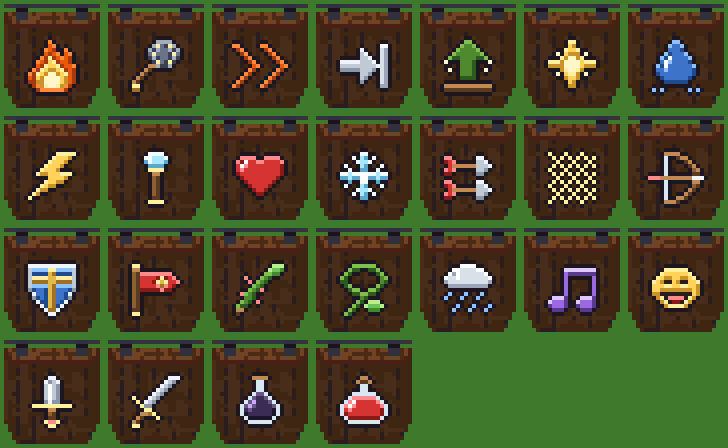
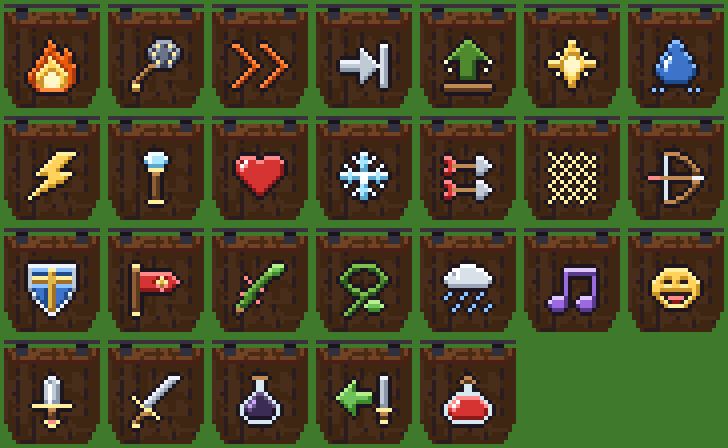
Se désengager a son icône : une flèche qui s'éloigne de l'épée (#231)

Changed region(s): [[0.5742, 0.75, 0.7253, 1.0], [0.4533, 0.8125, 0.544, 0.9688]]

diff --git a/src/entrainement/interface.js b/src/entrainement/interface.js
@@ -72,7 +72,7 @@ function construire() {
   dom.coin = el('div', { class: 'coin-phase bois' },
     dom.annuler = el('button', { type: 'button', class: 'bouton-jeu discret', onclick: annuler, title: 'Annuler le dernier déplacement (sans dé)' }, 'Annuler le déplacement'),
     // l'action commune de tous les héros (#231) : partir du contact sans attaque d'opportunité, pour son action bonus
-    dom.desengager = el('button', { type: 'button', class: 'bouton-jeu discret', id: 'desengager', onclick: () => desengager(), title: 'Action bonus : ce tour-ci, il s’éloigne sans attaque d’opportunité (touche D)' }, 'Se désengager (D)'),
+    dom.desengager = el('button', { type: 'button', class: 'bouton-jeu discret', id: 'desengager', onclick: () => desengager(), title: 'Action bonus : ce tour-ci, il s’éloigne sans attaque d’opportunité (touche D)' }, el('img', { class: 'bouton-icone', src: icone('desengager'), alt: '' }), 'Se désengager (D)'),
     dom.finPhase = el('button', { type: 'button', class: 'bouton-jeu', id: 'fin-phase', onclick: finPhase }, 'Fin de la phase des héros'));
   // en bas : la fiche de la capacité (choisie, ou survolée dans la barre), au-dessus de la barre des capacités
   dom.bas = el('div', { class: 'bas-terrain' },

diff --git a/src/entrainement/entrainement.css b/src/entrainement/entrainement.css
@@ -145,6 +145,7 @@ kbd { display: inline-block; min-width: 1.1em; padding: 0 3px; border: 1px solid
 .coin-phase #fin-phase { font: 700 1.05rem var(--titre); padding: 12px 10px; background: #85581b; border-color: #ffd35a; box-shadow: inset 0 -3px 0 rgba(0,0,0,.3), 0 0 12px rgba(255, 211, 90, .25); }
 .coin-phase #fin-phase:disabled { box-shadow: none; border-color: var(--bois-fonce); }
 .bouton-jeu:disabled { opacity: .5; cursor: not-allowed; filter: none; }
+.bouton-jeu .bouton-icone { width: 24px; height: 26px; image-rendering: pixelated; vertical-align: middle; margin: -6px 6px -6px -4px; }
 
 /* le d20 en grand, les bannières, le survol */
 .de-grand { position: fixed; left: 50%; top: 64px; transform: translateX(-50%); z-index: 12; pointer-events: none; display: grid; justify-items: center; gap: 2px;

diff --git a/src/entrainement/fiches.js b/src/entrainement/fiches.js
@@ -14,7 +14,7 @@ const ICONES = {
   ronce: 'ronce', liane: 'liane', pluie: 'pluie',
   dague: 'dague', chant: 'chant', moquerie: 'moquerie',
   arc: 'tirRapide', machoires: 'fracas', glu: 'vase', collet: 'liane', lecher: 'soin', mordre: 'dague', rabattre: 'pousser',
-  pasOmbre: 'pasOmbre', coupDos: 'coupDos', coupDos3: 'coupDos',
+  pasOmbre: 'pasOmbre', coupDos: 'coupDos', coupDos3: 'coupDos', desengager: 'desengager',
 };
 export const TAMPONS = { projection20: '20', ouverture2: 'CRIT', coupDos3: 'CRIT', fioleCible: 'CIBLE', givre3: '3' };
 export const icone = (id) => `./assets/lpc/icones/enseigne-${ICONES[id] ?? 'epee'}.png`;

diff --git a/src/entrainement/tests.js b/src/entrainement/tests.js
@@ -414,6 +414,7 @@ export async function selfTest(t, game) {
     C.deplacer(b, 9, 15.5);
     t.ok(!C.S.journal.some((l) => l.t.startsWith('Attaque d’opportunité')), 'désengagée, la Brute part sans prendre de coup');
     t.ok(!C.peutUtiliser(b, CAPACITES.desengager), 'une fois par tour');
+    t.ok(icone('desengager').endsWith('enseigne-desengager.png'), 'son icône : une flèche qui s’éloigne de l’épée');
   }
   {
     const { C, b, s } = opp();

diff --git a/CREDITS.md b/CREDITS.md
@@ -42,7 +42,7 @@ Tout ce qui est dans le jeu et qui n'a pas été fait par l'équipe, avec sa sou
 | La place du village : la fontaine, les pavés, le foyer, les réverbères, les buis, les étendards, la pierre des bâtisseurs, la haie, l'herbe domptée | `public/assets/lpc/place_sols.png`, `place_objets.png` | dessinés pixel par pixel pour le camp (`design/camp/outils/place_niveaux.py`), dans la palette de la muraille ; sur l'herbe et la terre de LPC Base Assets | l'équipe, et les auteurs de `credits/lpc-base-assets.txt` pour l'herbe et la terre | CC-BY-SA 3.0 |
 | La place du village : les bancs, le chaudron et son trépied, le petit feu, la souche, le panneau d'annonces (Medieval Village Decorations), le grand feu (Camp Fire Animation), le tonneau (LPC Base Assets), les braseros (ceux de la muraille) | `public/assets/lpc/place_objets.png` (recopiés par `place_jeu.py`) | voir les lignes de chaque pack plus haut | voir `credits/decorations-medieval.txt`, `credits/lpc-base-assets.txt` et la ligne du feu | CC-BY-SA 3.0 et 4.0 |
 | La boîte aux lettres du camp | `public/assets/lpc/boite_lettres.png` | dessinée pixel par pixel pour le camp (design/camp/outils/boite_lettres.py), rampe de bois prise sur les planches LPC | l'équipe | CC-BY-SA 3.0 (comme les planches dont elle prend les couleurs) |
-| Les 25 icônes des capacités, dans la barre et la fiche du terrain d'entraînement : une enseigne vierge avec un symbole peint en couleur | `public/assets/lpc/icones/*.png` (copiées de `design/ui-combat/icones/`) | l'enseigne vierge de [[LPC] Hanging signs](https://opengameart.org/content/lpc-hanging-signs) (dans `decorations-medieval.png`), symboles peints par `design/ui-combat/icones/outil/icones.mjs` | Reemax pour l'enseigne, l'équipe pour les symboles | CC-BY-SA 3.0 (comme l'enseigne) |
+| Les 26 icônes des capacités, dans la barre et la fiche du terrain d'entraînement : une enseigne vierge avec un symbole peint en couleur | `public/assets/lpc/icones/*.png` (copiées de `design/ui-combat/icones/`) | l'enseigne vierge de [[LPC] Hanging signs](https://opengameart.org/content/lpc-hanging-signs) (dans `decorations-medieval.png`), symboles peints par `design/ui-combat/icones/outil/icones.mjs` | Reemax pour l'enseigne, l'équipe pour les symboles | CC-BY-SA 3.0 (comme l'enseigne) |
 | Les animations des capacités, jouées en combat au terrain d’entraînement : les 47 briques de la bibliothèque (impacts, projectiles, traînées, foudre, surfaces, états, soins, et les 5 de Shadow : flaque et volutes d’ombre, ombre qui file, chevrons de la Tenaille, X d’ombre) | `public/assets/lpc/effets/*.png` (copiées de `design/animations/bibliotheque/`) | dessinées pixel par pixel par `design/animations/outil/bibliotheque.mjs`, dans les rampes de couleurs des icônes LPC | l'équipe | CC-BY-SA 3.0 (comme les icônes dont elles prennent les couleurs) |
 | Les esquisses de ces animations : les briques posées sur une scène du terrain d'entraînement | `design/animations/esquisses/*.png`, `design/animations/captures/*.gif` | composées par `design/animations/outil/` avec les personnages du terrain d'entraînement, l'herbe (`grass.png`) et le tonneau (`barrel.png`) du jeu | voir les lignes de ces images ci-dessus, et l'équipe pour les effets | celles de ces images (CC-BY-SA 3.0, GPL 3.0 ou OGA-BY 3.0 selon la pièce) |
 
